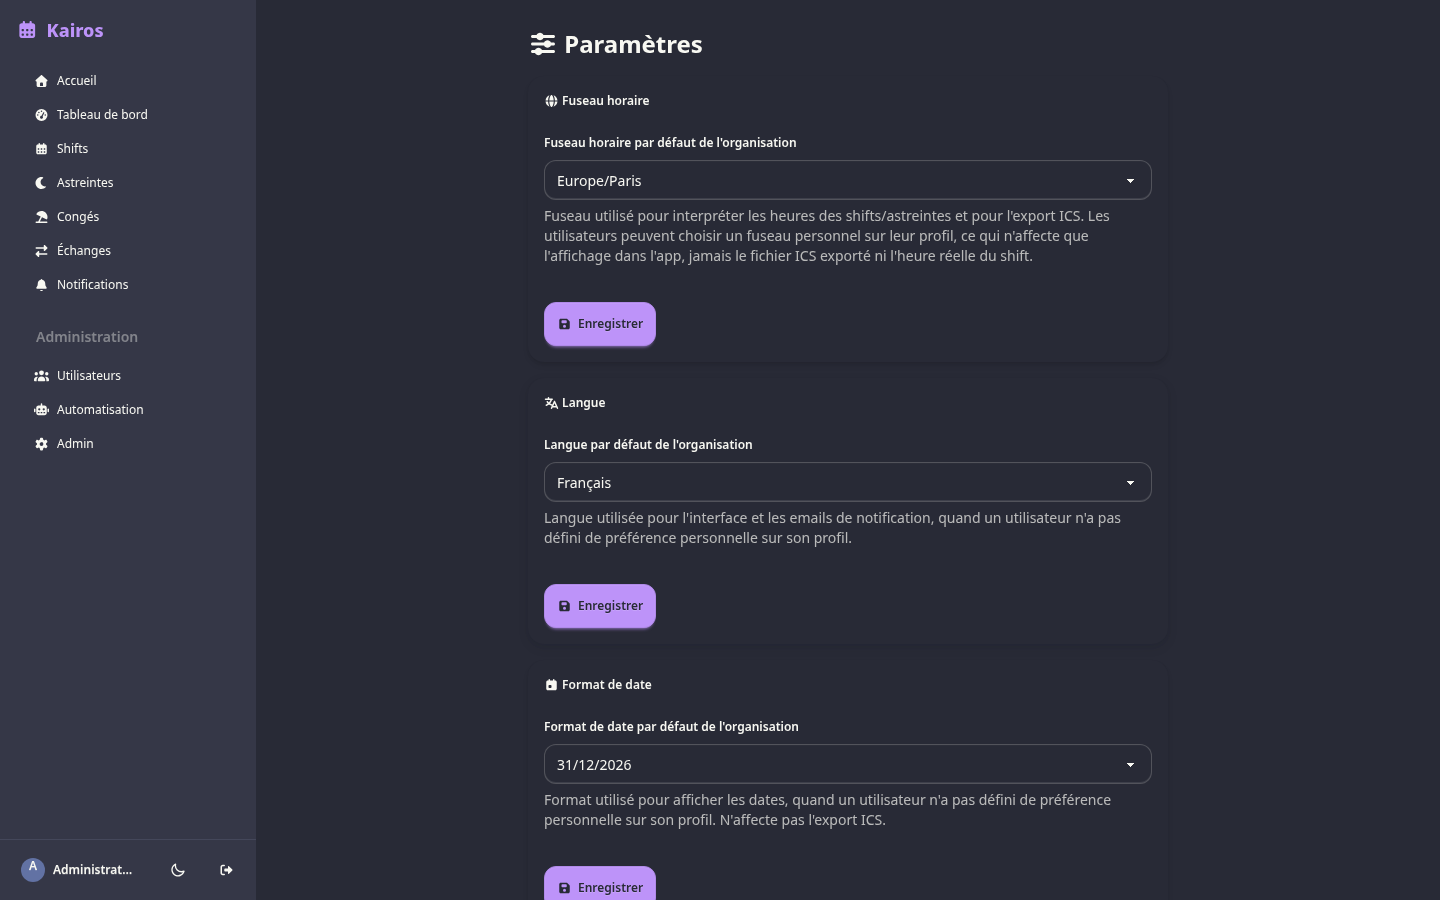
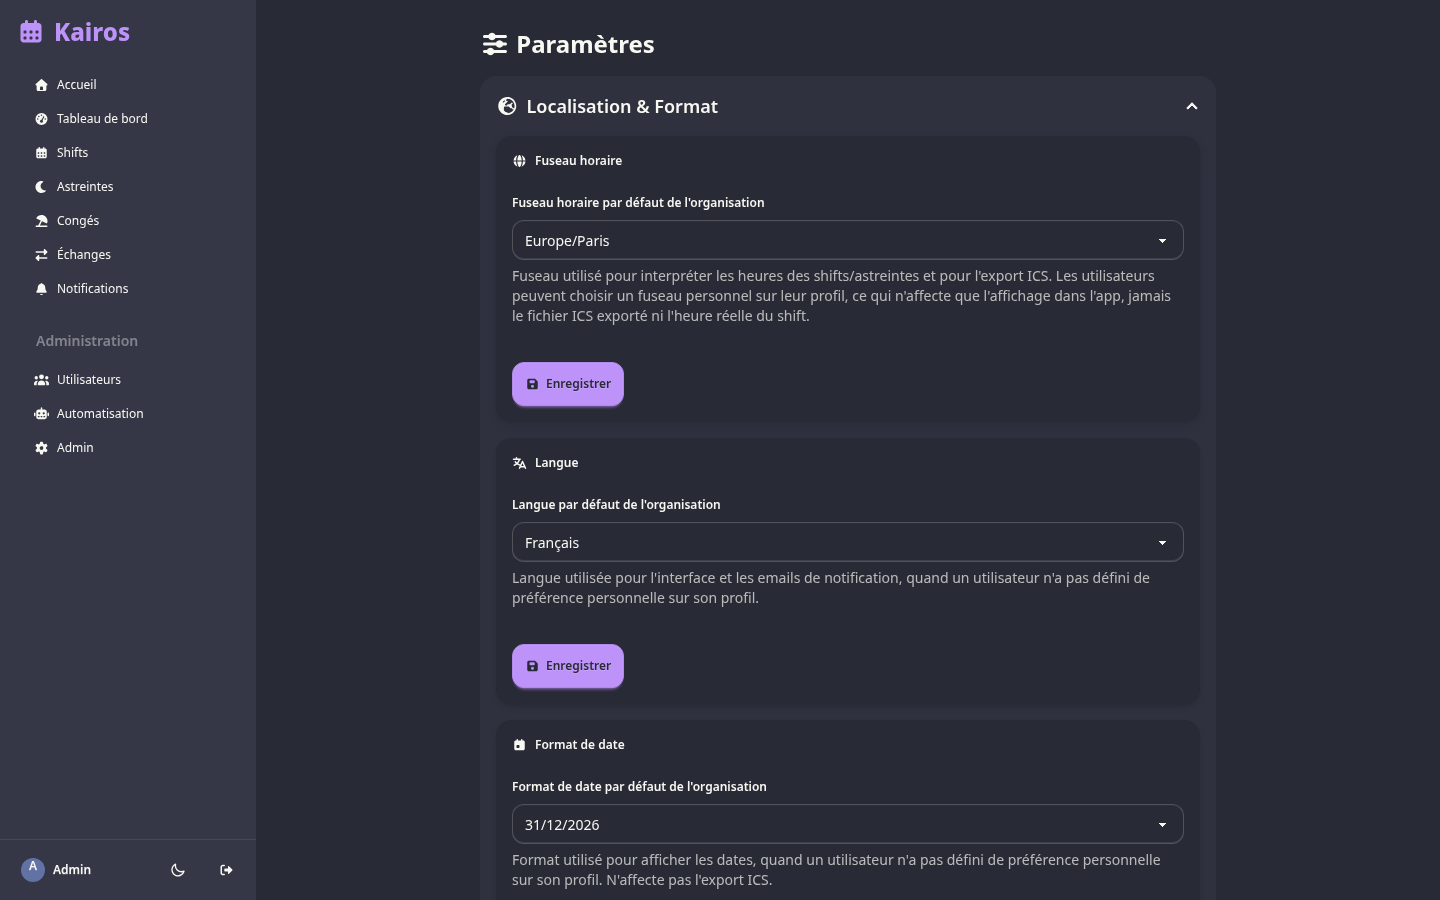
docs: met à jour ROADMAP.md, README.md et les captures d'écran
Les captures dataient d'avant plusieurs fonctionnalités de ce cycle
1.1.0 (couleurs/filtre par groupe sur le calendrier, ancien toggle
"Mode édition" supprimé, filtre + suppression unifiée sur
/oncall, page /admin/settings redessinée en sections accordéon) -
régénérées en conditions réelles (Playwright, données seed réalistes,
clair + sombre).

ROADMAP.md :
- Nombre de tests à jour (1680+)
- "Affichage calendrier par groupe" déplacé de Future ideas vers Done
  (couleurs, légende, filtre, modales d'édition au clic - tout est
  livré) ; ne reste en Future que la portion réellement non câblée
  (fill_oncall_gaps/rebalance_after_leave/refresh_shifts poolent
  encore tous les utilisateurs éligibles)
- Ajout des fonctionnalités livrées ce cycle mais jamais documentées
  dans le Done : filtre + suppression unifiée sur schedule/oncall/
  leave, stats du tableau de bord en jours (pas en lignes), export
  ICS scopé par groupe en un seul bouton/modale
- "In progress" corrigé (annonçait "rien n'a atterri" alors que tout
  le travail listé ci-dessus l'avait déjà)

README.md : texte alternatif de la capture du calendrier mentionne
désormais le code couleur par groupe.

diff --git a/ROADMAP.md b/ROADMAP.md
@@ -1,6 +1,6 @@
 # Roadmap
 
-**Current version: 1.1.0** — feature-complete, tested (1390+
+**Current version: 1.1.0** — feature-complete, tested (1680+
 automated tests), and used for real team scheduling.
 
 ## ✅ Done
@@ -14,6 +14,20 @@ automated tests), and used for real team scheduling.
   (requester → target confirms → admin approves)
 - User and group management, with per-group participation in
   scheduling/on-call
+- Main calendar shows a color-coded dot per event's group (with a
+  legend) and a multi-group filter, on top of the existing per-type
+  colors (shift/on-call/leave); clicking an event opens a view/edit
+  modal (admins can reassign the user, type, or time) instead of the
+  old click-to-delete-only toggle
+- `/schedule`, `/oncall`, and `/leave` share one filter bar (user,
+  group, date range) plus a unified "delete filtered result"/"delete
+  selection" action, replacing what used to be six separate
+  single-purpose bulk-delete buttons
+- Dashboard stat cards count days, not rows (a multi-day on-call or
+  leave used to inflate the count), with a month-over-month trend
+- ICS export collapsed to one button/modal per resource type, scoped
+  by group and by "me"/"everyone" inside the modal, reused as-is on
+  the profile page instead of six static links
 
 **Automation**
 - Rule-based automatic shift generation (on-call coverage, rotation,
@@ -59,27 +73,22 @@ automated tests), and used for real team scheduling.
 
 ## 🔧 In progress
 
-**1.1.0** — next development cycle, just started, nothing landed yet.
+Nothing currently in flight — everything landed in this 1.1.0 cycle so
+far is already listed under "Done". Not yet tagged/released.
 
 ## 🔭 Future ideas
 
 Larger features, not yet started, not committed to a timeline.
 
-- **Per-group calendar display.** The configurable automation rules
-  engine (see "Done") supports per-`Group` overrides end to end —
-  both the eligible-user pool *and* rule values (weekend/slots/
-  spacing/anchor/mandatory/staffing/rest/overlap) resolve per Group,
-  editable on `/admin/automation/rules` via its group selector — and
-  `shift_scheduling_mode`/`oncall_scheduling_mode` (each independently
-  shared/per_group) are wired all the way into generation:
-  `AutomationAdminService.generate_full()` runs one independent pass
-  per eligible `Group` when a mode is `per_group`. What's still
-  missing is the calendar itself: no per-group color/legend/filter, so
-  a `per_group` deployment can't visually distinguish which rotation
-  an event belongs to. `fill_oncall_gaps()`/`rebalance_after_leave()`/
-  `refresh_shifts()` (narrower advanced workflows) also still pool
-  regardless of the setting. Deliberately left for a dedicated
-  follow-up rather than bundled into the rules-engine work.
+- **Per-group generation for the narrower advanced workflows.** The
+  configurable automation rules engine and `shift_scheduling_mode`/
+  `oncall_scheduling_mode` (each independently shared/per_group) are
+  wired into the main generation path and the calendar display (both
+  now listed under "Done"), but `fill_oncall_gaps()`,
+  `rebalance_after_leave()`, and `refresh_shifts()` — narrower,
+  targeted workflows rather than full-period generation — still pool
+  every eligible user regardless of the setting. Deliberately left for
+  a dedicated follow-up.
 - **On-call intervention reports.** A way to log what happened during
   an on-call shift (time spent, actions taken) — useful both for
   payroll and as an audit trail of interventions.

diff --git a/README.md b/README.md
@@ -13,7 +13,7 @@ actually understands legal rest constraints.
   <picture>
     <source media="(prefers-color-scheme: dark)" srcset="Docs/assets/screenshots/calendar-dark.png">
     <source media="(prefers-color-scheme: light)" srcset="Docs/assets/screenshots/calendar-light.png">
-    <img src="Docs/assets/screenshots/calendar-light.png" alt="Monthly calendar view with shifts, on-call, and leave" width="820">
+    <img src="Docs/assets/screenshots/calendar-light.png" alt="Monthly calendar view with shifts, on-call, and leave, color-coded by group" width="820">
   </picture>
 </p>
 
